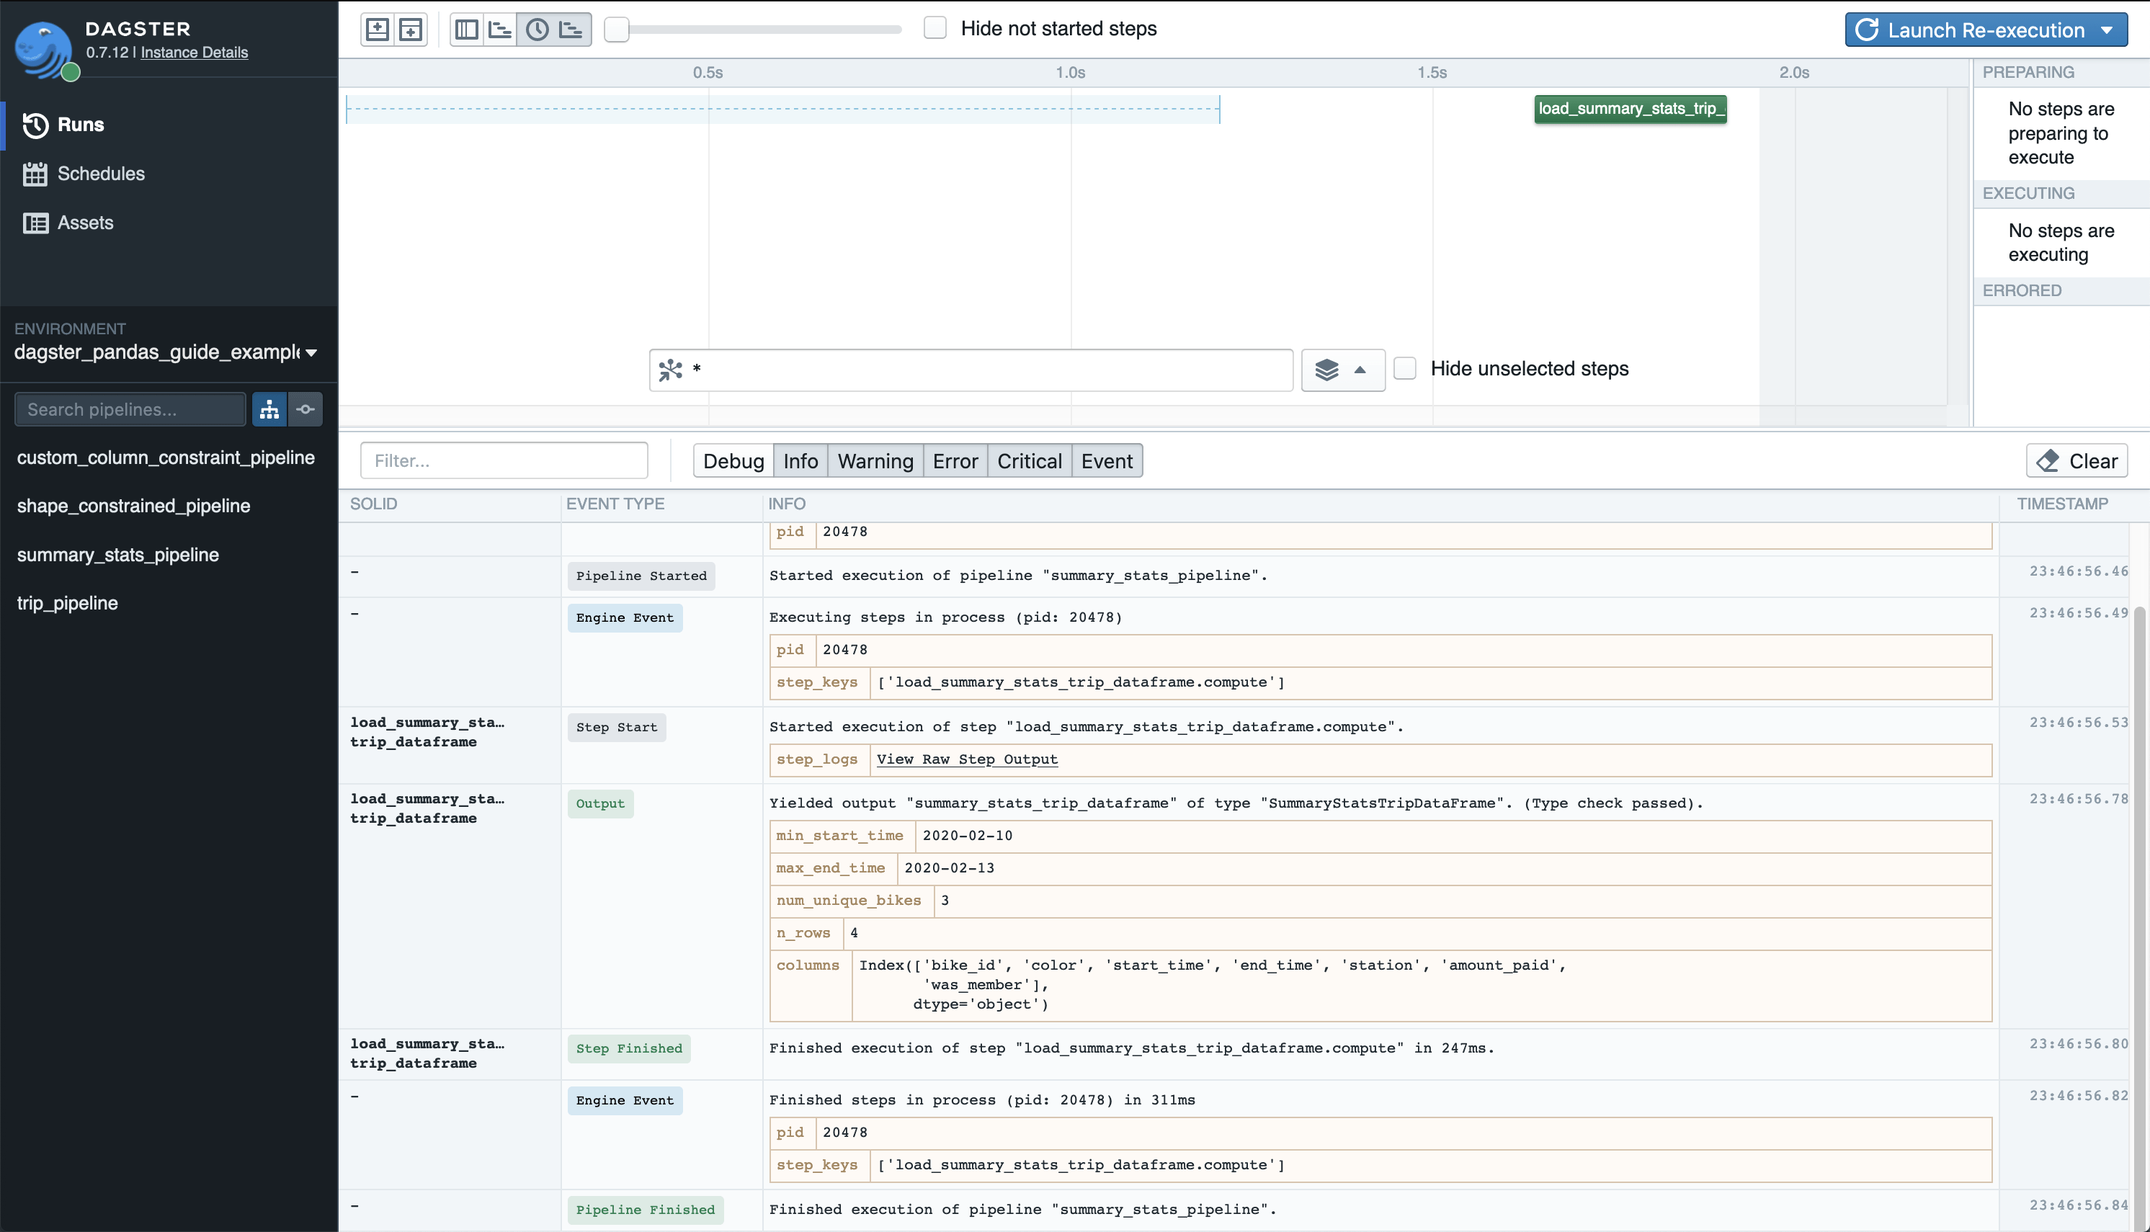
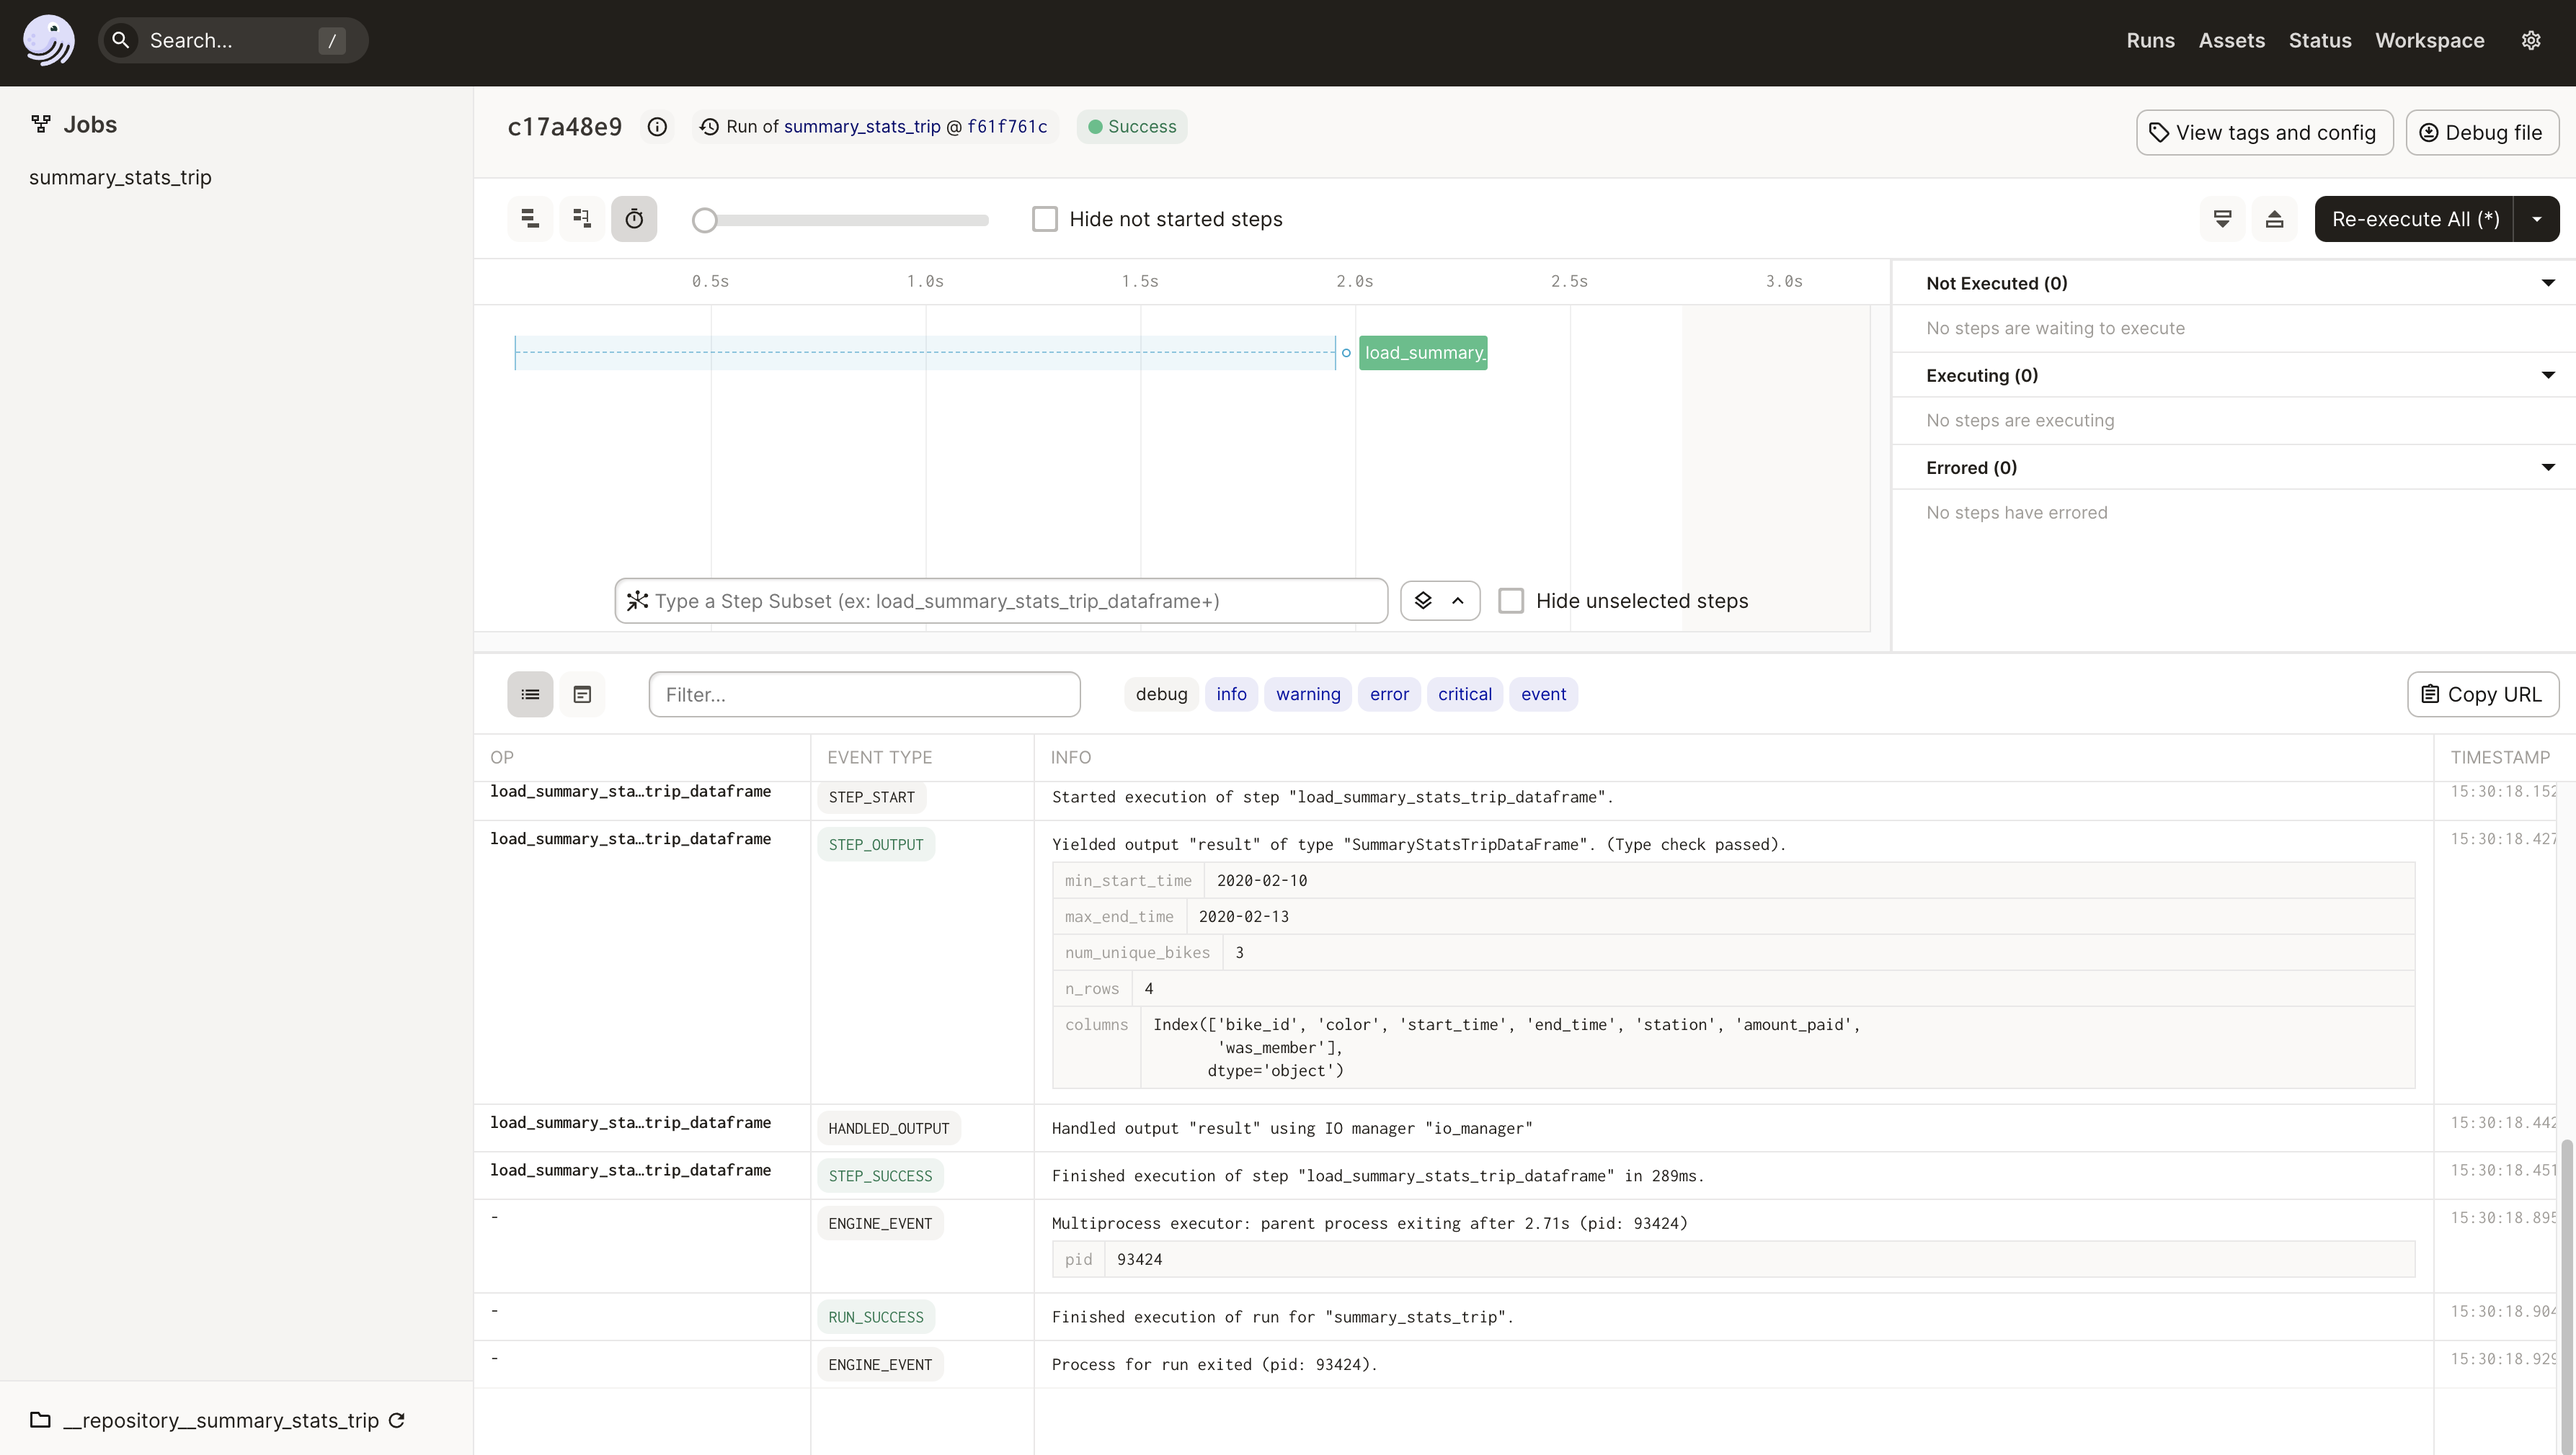
update pandas docs / screenshots to use new UI, job, op (#5487)
* pandas docs

* isort

diff --git a/examples/docs_snippets/docs_snippets_tests/legacy_tests/dagster_pandas_guide_tests/test_pipelines.py b/examples/docs_snippets/docs_snippets_tests/legacy_tests/dagster_pandas_guide_tests/test_pipelines.py
@@ -1,24 +1,16 @@
 import pytest
-from dagster import execute_pipeline
-from docs_snippets.legacy.dagster_pandas_guide.core_trip_pipeline import trip_pipeline
-from docs_snippets.legacy.dagster_pandas_guide.custom_column_constraint_pipeline import (
-    custom_column_constraint_pipeline,
+from docs_snippets.legacy.dagster_pandas_guide.core_trip import core_trip
+from docs_snippets.legacy.dagster_pandas_guide.custom_column_constraint import (
+    custom_column_constraint_trip,
 )
-from docs_snippets.legacy.dagster_pandas_guide.shape_constrained_pipeline import (
-    shape_constrained_pipeline,
-)
-from docs_snippets.legacy.dagster_pandas_guide.summary_stats_pipeline import summary_stats_pipeline
+from docs_snippets.legacy.dagster_pandas_guide.shape_constrained_trip import shape_constrained_trip
+from docs_snippets.legacy.dagster_pandas_guide.summary_stats import summary_stats_trip
 
 
 @pytest.mark.parametrize(
-    "pipeline",
-    [
-        custom_column_constraint_pipeline,
-        shape_constrained_pipeline,
-        summary_stats_pipeline,
-        trip_pipeline,
-    ],
+    "job",
+    [custom_column_constraint_trip, shape_constrained_trip, summary_stats_trip, core_trip],
 )
-def test_guide_pipelines_success(pipeline):
-    pipeline_result = execute_pipeline(pipeline)
-    assert pipeline_result.success
+def test_guide_pipelines_success(job):
+    result = job.execute_in_process()
+    assert result.success

diff --git a/examples/docs_snippets/docs_snippets/legacy/dagster_pandas_guide/repository.py b/examples/docs_snippets/docs_snippets/legacy/dagster_pandas_guide/repository.py
@@ -1,18 +1,18 @@
 from dagster import repository
 
-from .core_trip_pipeline import trip_pipeline
-from .custom_column_constraint_pipeline import custom_column_constraint_pipeline
-from .shape_constrained_pipeline import shape_constrained_pipeline
-from .summary_stats_pipeline import summary_stats_pipeline
+from .core_trip import core_trip
+from .custom_column_constraint import custom_column_constraint_trip
+from .shape_constrained_trip import shape_constrained_trip
+from .summary_stats import summary_stats_trip
 
 
 @repository
 def dagster_pandas_guide_examples():
     return {
         "pipelines": {
-            "custom_column_constraint_pipeline": lambda: custom_column_constraint_pipeline,
-            "shape_constrained_pipeline": lambda: shape_constrained_pipeline,
-            "summary_stats_pipeline": lambda: summary_stats_pipeline,
-            "trip_pipeline": lambda: trip_pipeline,
+            "custom_column_constraint_trip": lambda: custom_column_constraint_trip,
+            "shape_constrained_trip": lambda: shape_constrained_trip,
+            "summary_stats_trip": lambda: summary_stats_trip,
+            "core_trip": lambda: core_trip,
         }
     }

diff --git a/examples/docs_snippets/docs_snippets/legacy/dagster_pandas_guide/core_trip.py b/examples/docs_snippets/docs_snippets/legacy/dagster_pandas_guide/core_trip.py
@@ -1,11 +1,11 @@
 from datetime import datetime
 
-from dagster import OutputDefinition, pipeline, solid
+from dagster import Out, job, op
 from dagster.utils import script_relative_path
 from dagster_pandas import PandasColumn, create_dagster_pandas_dataframe_type
 from pandas import DataFrame, read_csv
 
-# start_core_trip_pipeline_marker_0
+# start_core_trip_marker_0
 TripDataFrame = create_dagster_pandas_dataframe_type(
     name="TripDataFrame",
     columns=[
@@ -20,10 +20,10 @@ TripDataFrame = create_dagster_pandas_dataframe_type(
         PandasColumn.boolean_column("was_member"),
     ],
 )
-# end_core_trip_pipeline_marker_0
+# end_core_trip_marker_0
 
-# start_core_trip_pipeline_marker_1
-@solid(output_defs=[OutputDefinition(name="trip_dataframe", dagster_type=TripDataFrame)])
+# start_core_trip_marker_1
+@op(out=Out(TripDataFrame))
 def load_trip_dataframe() -> DataFrame:
     return read_csv(
         script_relative_path("./ebike_trips.csv"),
@@ -32,9 +32,9 @@ def load_trip_dataframe() -> DataFrame:
     )
 
 
-# end_core_trip_pipeline_marker_1
+# end_core_trip_marker_1
 
 
-@pipeline
-def trip_pipeline():
+@job
+def core_trip():
     load_trip_dataframe()

diff --git a/examples/docs_snippets/docs_snippets/legacy/dagster_pandas_guide/shape_constrained_trip.py b/examples/docs_snippets/docs_snippets/legacy/dagster_pandas_guide/shape_constrained_trip.py
@@ -1,6 +1,6 @@
 from datetime import datetime
 
-from dagster import OutputDefinition, pipeline, solid
+from dagster import Out, job, op
 from dagster.utils import script_relative_path
 from dagster_pandas import RowCountConstraint, create_dagster_pandas_dataframe_type
 from pandas import DataFrame, read_csv
@@ -12,13 +12,7 @@ ShapeConstrainedTripDataFrame = create_dagster_pandas_dataframe_type(
 # end_create_type
 
 
-@solid(
-    output_defs=[
-        OutputDefinition(
-            name="shape_constrained_trip_dataframe", dagster_type=ShapeConstrainedTripDataFrame
-        )
-    ]
-)
+@op(out=Out(ShapeConstrainedTripDataFrame))
 def load_shape_constrained_trip_dataframe() -> DataFrame:
     return read_csv(
         script_relative_path("./ebike_trips.csv"),
@@ -27,6 +21,6 @@ def load_shape_constrained_trip_dataframe() -> DataFrame:
     )
 
 
-@pipeline
-def shape_constrained_pipeline():
+@job
+def shape_constrained_trip():
     load_shape_constrained_trip_dataframe()

diff --git a/examples/docs_snippets/docs_snippets/legacy/dagster_pandas_guide/summary_stats.py b/examples/docs_snippets/docs_snippets/legacy/dagster_pandas_guide/summary_stats.py
@@ -1,6 +1,6 @@
 from datetime import datetime
 
-from dagster import OutputDefinition, pipeline, solid
+from dagster import Out, job, op
 from dagster.utils import script_relative_path
 from dagster_pandas import create_dagster_pandas_dataframe_type
 from pandas import DataFrame, read_csv
@@ -23,13 +23,7 @@ SummaryStatsTripDataFrame = create_dagster_pandas_dataframe_type(
 # end_summary
 
 
-@solid(
-    output_defs=[
-        OutputDefinition(
-            name="summary_stats_trip_dataframe", dagster_type=SummaryStatsTripDataFrame
-        )
-    ]
-)
+@op(out=Out(SummaryStatsTripDataFrame))
 def load_summary_stats_trip_dataframe() -> DataFrame:
     return read_csv(
         script_relative_path("./ebike_trips.csv"),
@@ -38,6 +32,6 @@ def load_summary_stats_trip_dataframe() -> DataFrame:
     )
 
 
-@pipeline
-def summary_stats_pipeline():
+@job
+def summary_stats_trip():
     load_summary_stats_trip_dataframe()

diff --git a/examples/docs_snippets/docs_snippets/legacy/dagster_pandas_guide/custom_column_constraint.py b/examples/docs_snippets/docs_snippets/legacy/dagster_pandas_guide/custom_column_constraint.py
@@ -1,6 +1,6 @@
 from datetime import datetime
 
-from dagster import OutputDefinition, pipeline, solid
+from dagster import Out, job, op
 from dagster.utils import script_relative_path
 from dagster_pandas import PandasColumn, create_dagster_pandas_dataframe_type
 from dagster_pandas.constraints import (
@@ -42,9 +42,7 @@ CustomTripDataFrame = create_dagster_pandas_dataframe_type(
 # end_custom_col
 
 
-@solid(
-    output_defs=[OutputDefinition(name="custom_trip_dataframe", dagster_type=CustomTripDataFrame)],
-)
+@op(out=Out(CustomTripDataFrame))
 def load_custom_trip_dataframe() -> DataFrame:
     return read_csv(
         script_relative_path("./ebike_trips.csv"),
@@ -53,6 +51,6 @@ def load_custom_trip_dataframe() -> DataFrame:
     )
 
 
-@pipeline
-def custom_column_constraint_pipeline():
+@job
+def custom_column_constraint_trip():
     load_custom_trip_dataframe()
